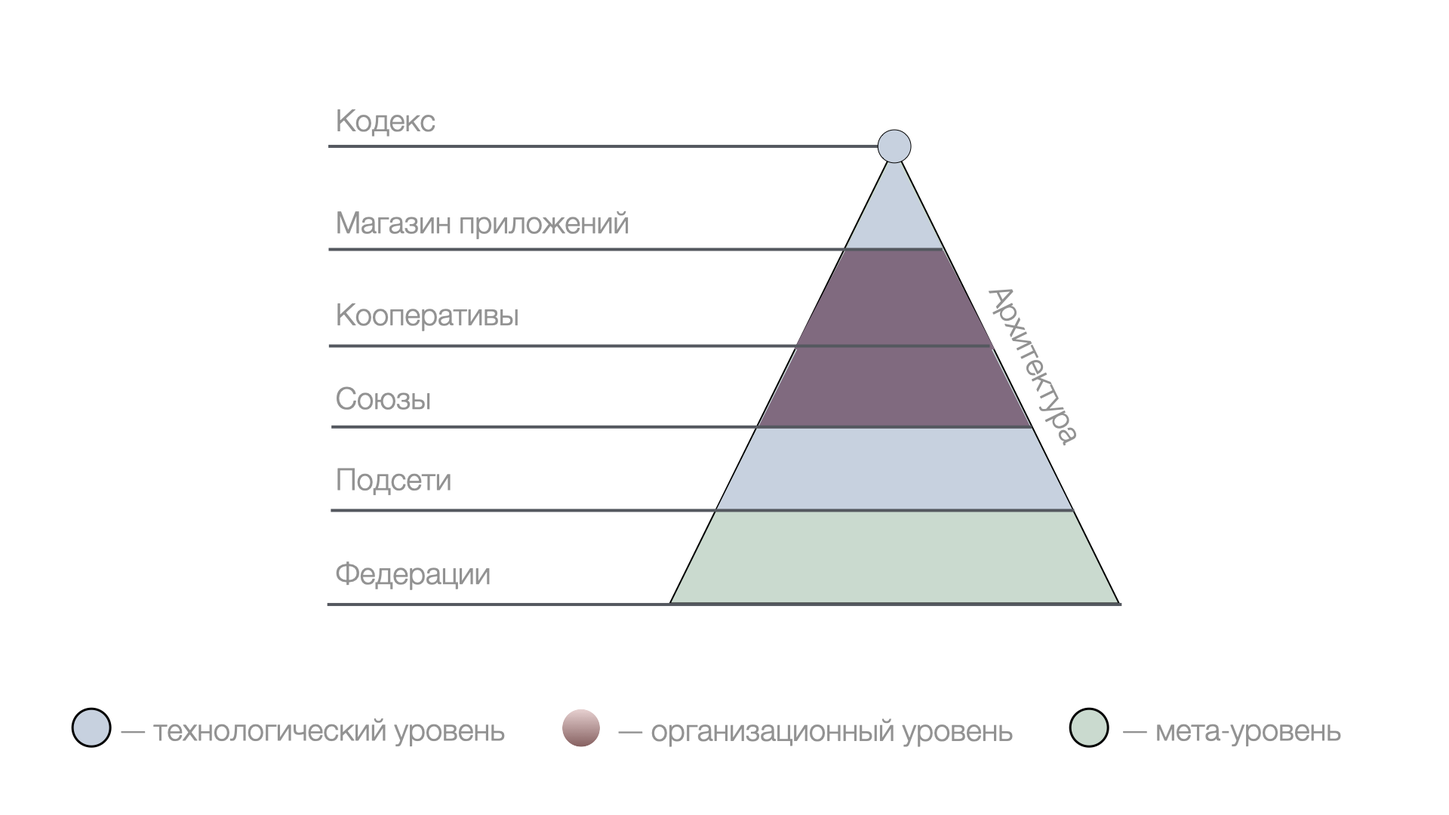
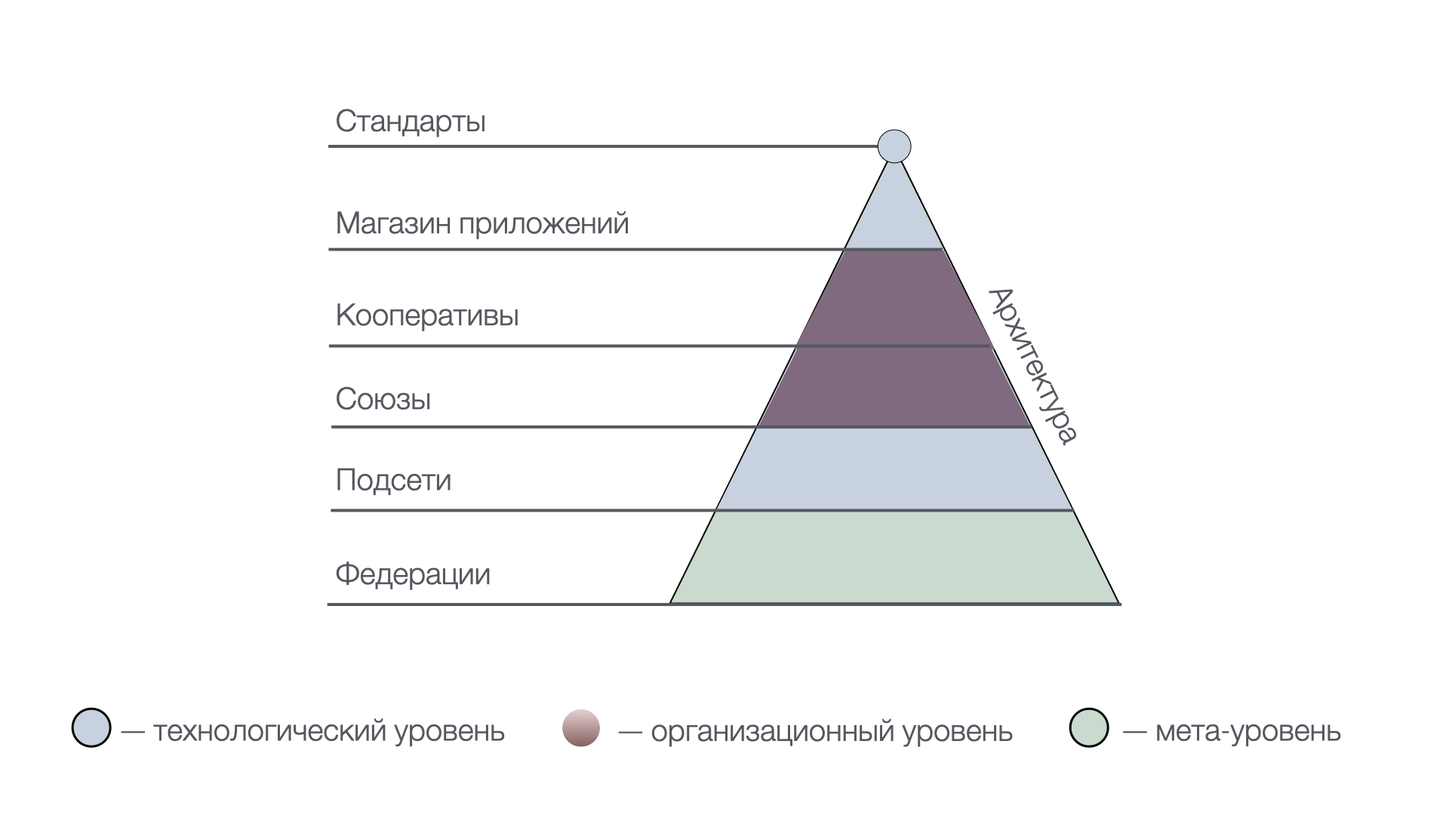
doc update

diff --git a/components/docs/docs/index.md b/components/docs/docs/index.md
@@ -19,29 +19,29 @@ tags:
 ![](/assets/new/org_architecture.png)
 
 
-## Кодекс
-Кодекс - это стандартизированный свод правил, методов, алгоритмов и норм кооперативной экономики, описанных на языке программирования C/C++, которые хранятся и исполняются в распределенной базе данных блокчейна. 
+## Стандарты
+Стандарты - это стандартизированный свод правил, методов, алгоритмов и норм кооперативной экономики, описанных на языке программирования C/C++, которые хранятся и исполняются в распределенной базе данных блокчейна. 
 
-Технологически, кодекс - это смарт-контракты, которые описывают методологию кооперации, а также целевые потребительские программы и алгоритмы действий пайщиков при участии в них с контролем прав доступа и логических (строго-математических) условий кооперации. 
+Технологически, стандарты - это смарт-контракты, которые описывают методологию кооперации, а также целевые потребительские программы и алгоритмы действий пайщиков при участии в них с контролем прав доступа и логических (строго-математических) условий кооперации. 
 
-Таким образом, кодекс - это программное ядро цифрового кооператива, которое объединяет систему в единое целое. За счет использования общего кодекса, подключенные к системе кооперативы получают возможность прозрачно и предсказуемо взаимодействовать между собой. 
+Таким образом, стандарты - это программное ядро цифрового кооператива, которое объединяет систему в единое целое. За счет использования общих стандартов, подключенные к системе кооперативы получают возможность прозрачно и предсказуемо взаимодействовать между собой. 
 
-**Первичным источником кодекса является его открытый программный код.** 
+**Первичным источником стандартов является их открытый программный код.** 
 
 ## Магазин приложений
 
 При подключении кооператив получает доступ к магазину кооперативных приложений. Устанавливая приложения, кооператив расширяет свою функциональность пайщиков новыми рабочими столами и страницами. 
 
-Рабочие столы и страницы реализуют кодекс в виде форм и кнопок, которые ведут пользователя по пути кооперации. Если с кодексом напрямую взаимодействовать могут только разработчики, ввиду того, что он написан на их языке, то рабочие столы и их страницы доступны к использованию всем пайщикам. 
+Рабочие столы и страницы реализуют стандарты в виде форм и кнопок, которые ведут пользователя по пути кооперации. Если со стандартами напрямую взаимодействовать могут только разработчики, ввиду того, что они написаны на их языке, то рабочие столы и их страницы доступны к использованию всем пайщикам. 
 
-Так, за счёт единого кодекса, у одной и той же целевой потребительской программы может быть несколько приложений от разных разработчиков, которые предоставляют доступ к её использованию. Данные о пользователях, при этом, доступны одновременно в обоих приложениях. Таким образом, становится возможным переход от одного приложения к другому без потери данных - они изначально находятся в едином информационном пространстве блокчейна.
+Так, за счёт единых стандартов, у одной и той же целевой потребительской программы может быть несколько приложений от разных разработчиков, которые предоставляют доступ к её использованию. Данные о пользователях, при этом, доступны одновременно в обоих приложениях. Таким образом, становится возможным переход от одного приложения к другому без потери данных - они изначально находятся в едином информационном пространстве блокчейна.
 
 <div align="center">
 ```mermaid
 graph BT
     Приложение1("Приложение 1") --> Данные_кооператива
     Приложение2("Приложение 2") --> Данные_кооператива
-    Данные_кооператива("Данные кооператива") --> Кодекс("Кодекс")
+    Данные_кооператива("Данные кооператива") --> Стандарты("Стандарты")
 ```
 </div>
 
@@ -50,7 +50,7 @@ graph BT
 
 Кооперативы становятся цифровыми при подключении к системе за счёт выпуска электронных цифровых подпистей для своих пайщиков и перевода документооборота с ними в электронную форму. 
 
-Приложения из магазина, функционируя на основе кодекса, генерируют электронные документы и подписывают в момент нажатия кнопок пайщиками. Таким образом, весь первичный документооборот автоматически генерируется приложениями на основе стандартной методологии кодекса. 
+Приложения из магазина, функционируя на основе стандартов, генерируют электронные документы и подписывают в момент нажатия кнопок пайщиками. Таким образом, весь первичный документооборот автоматически генерируется приложениями на основе стандартной методологии стандартов. 
 
 Первичный документооборот может быть использован для автоматического формирования бухгалтерской отчетности и соответствующих проводок по счетам во внешних бухгалтерских программах. Для этого также требуется установленные и настроенные приложения из магазина. 
 
@@ -64,7 +64,7 @@ graph BT
 
 ## Подсети
 
-Платформа Цифрового Кооператива распределена по подсетями. Каждая подсеть - это выделенная копия блокчейна и кодекса, которые обеспечивают:
+Платформа Цифрового Кооператива распределена по подсетями. Каждая подсеть - это выделенная копия блокчейна и стандартов, которые обеспечивают:
 
 - Полную правовую, валютную и технологическую изоляцию кооперативных контуров;
 
@@ -74,7 +74,7 @@ graph BT
 
 ![](/assets/new/subnets.png)
 
-Таким образом, в каждой подсети может быть свой, адаптированный  вариант кодекса, со своими союзами и кооперативами, действующих с учетом особенностей внутреннего законодательства и на основе своей государственной валюты. 
+Таким образом, в каждой подсети может быть свой, адаптированный  вариант стандартов, со своими союзами и кооперативами, действующих с учетом особенностей внутреннего законодательства и на основе своей государственной валюты. 
 
 
 ## Федерации
@@ -85,7 +85,7 @@ graph BT
 
 Федерации по организационно-правовой форме являются потребительскими кооперативами и обеспечивают среду взаимного членства в своём правовом поле. Федерации обеспечивают интернациональные коммуникационные связи между подсетями и странами, являются шлюзами для передачи информации/имущества. 
 
-С помощью федераций и на основе общего кодекса, становятся возможным создавать кооперативные цепочки удовлетворения потребностей большой длины, когда потребности пайщиков кооперативов удовлетворяются нелинейно через организацию живой, саморазвивающейся сети взаимопомощи, где целое становится больше суммы своих частей.
+С помощью федераций и на основе общих стандартов, становятся возможным создавать кооперативные цепочки удовлетворения потребностей большой длины, когда потребности пайщиков кооперативов удовлетворяются нелинейно через организацию живой, саморазвивающейся сети взаимопомощи, где целое становится больше суммы своих частей.
 
 ## Про что документация
 

diff --git a/components/docs/docs/new/council/agenda.md b/components/docs/docs/new/council/agenda.md
@@ -10,9 +10,9 @@ tags:
 
 ![повестка совета](/assets/new/soviet_agenda_1.png)
 
-Стандартизированные решения ведут к автоматизированному их исполнению согласно кодексу смарт-контрактов и обычно являются частью какого-либо бизнес-процесса. Например, при решении о приёме пайщика в кооператив - пайщик автоматически добавляется в реестр и ему открывается главный кошелек, а при решении о приеме имущественного паевого взноса, пайщик и председатель кооперативного участка получают возможность подписать акт приема-передачи. Стандартизированные решения обычно являются промежуточными в цепочке действий бизнес-процесса, которая продолжит свое исполнение, как только решение совета по вопросу будет принято. 
+Стандартизированные решения ведут к автоматизированному их исполнению согласно стандартам смарт-контрактов и обычно являются частью какого-либо бизнес-процесса. Например, при решении о приёме пайщика в кооператив - пайщик автоматически добавляется в реестр и ему открывается главный кошелек, а при решении о приеме имущественного паевого взноса, пайщик и председатель кооперативного участка получают возможность подписать акт приема-передачи. Стандартизированные решения обычно являются промежуточными в цепочке действий бизнес-процесса, которая продолжит свое исполнение, как только решение совета по вопросу будет принято. 
 
-Произвольные решения не исполняются автоматически, т.к. у них для этого нет правил кодекса. Произвольные решения позволяют членам совета предлагать вопросы на повестку и проекты решений по ним. Система автоматически сформирует документ предложения повестки и предложит совету проголосовать. При утверждении решения председателем совета, система сформирует протокол решения и сохранит его в реестре документов. Контроль исполнения принятого произвольного решения ложится на членов совета. 
+Произвольные решения не исполняются автоматически, т.к. у них для этого нет правил стандартов. Произвольные решения позволяют членам совета предлагать вопросы на повестку и проекты решений по ним. Система автоматически сформирует документ предложения повестки и предложит совету проголосовать. При утверждении решения председателем совета, система сформирует протокол решения и сохранит его в реестре документов. Контроль исполнения принятого произвольного решения ложится на членов совета. 
 
 !!!danger "Если решение не принято?"
     Если решение по вопросу не принято, то председатель не получит возможность утвердить протокол и следовательно он не попадет в реестр документов. Так, в реестр документов попадают только принятые и утвержденные решения совета. Что же касается стандартизированного бизнес-процесса, который прерывается, то у него на случай отказа в принятии решения всегда есть сценарий отмены, по ходу которого пайщик получает оповещение, и обратное движение средств по [кошелькам](../participant/wallet.md).
@@ -55,7 +55,7 @@ flowchart TD
 
 После того, как решение принято, председатель может утвердить его, нажатием на соответствующую кнопку напротив пункта повестки. Действие утверждения сформирует протокол собрания собрания совета и наполнит его данными в соответствии с содержанием стандартизированного или произвольного пункта повестки. 
 
-Если утверждается стандартизированное решение, то оно автоматически в этот же момент и исполняется на уровне кодекса смарт-контрактов. Произвольные решения, как было отмечено ранее, автоматически не исполняются, а только фиксируются в реестре документов. 
+Если утверждается стандартизированное решение, то оно автоматически в этот же момент и исполняется на уровне стандартов смарт-контрактов. Произвольные решения, как было отмечено ранее, автоматически не исполняются, а только фиксируются в реестре документов. 
 
 
 ## Предложить пункт повестки

diff --git a/components/docs/docs/new/registration/accept.md b/components/docs/docs/new/registration/accept.md
@@ -52,7 +52,7 @@ tags:
 
 ![модуль голосования](/assets/new/accept_reg_10.png)
 
-Как только количество голосов "ЗА" становится достаточным для принятия решения, у председателя совета рядом с модулем голосования появляется кнопка "Утвердить". В этот момент система автоматически формирует протокол собрания совета по вопросу повестки, подсчитывает голоса и подписывает этот новый документ цифровой подписью председателя совета. После чего, этот документ отправляется согласно кодексу в блокчейн, который автоматически исполняет его. 
+Как только количество голосов "ЗА" становится достаточным для принятия решения, у председателя совета рядом с модулем голосования появляется кнопка "Утвердить". В этот момент система автоматически формирует протокол собрания совета по вопросу повестки, подсчитывает голоса и подписывает этот новый документ цифровой подписью председателя совета. После чего, этот документ отправляется согласно стандартам в блокчейн, который автоматически исполняет его. 
 
 ![утвердить решение](/assets/new/accept_reg_12.png)
 
@@ -67,7 +67,7 @@ tags:
 
 
 !!!note "Забегая вперёд.."
-    Следует сказать, что система способна работать со стандартизированными решениями (например, вступление пайщика, взнос/возврат имущественных взносов, и т.д.), которые исполняются автоматически согласно кодексу платформы (например - через изменение статуса пайщика, увеличение баланса цифрового кошелька, и т.п.), и произвольными, когда члены совета создают вопрос на повестке и используют модуль голосования для формирования протокола решения совета, которое будет сохранено в системе как принятое, но не будет автоматически исполнено на уровне кодекса его программного кода. Произвольные решения позволяют кооперативам частично автоматизировать процесс принятия решений по любым вопросам своей деятельности вне цифровой платформы, автоматизируя процесс голосования и утверждения протоколов собрания совета. Стандартизированные решения же ведут к изменениям в распределенной базе данных блокчейна согласно кодексу платформы. Подробнее мы рассмотрим произвольные решения на странице "Повестка совета" на столе совета. 
+    Следует сказать, что система способна работать со стандартизированными решениями (например, вступление пайщика, взнос/возврат имущественных взносов, и т.д.), которые исполняются автоматически согласно стандартам платформы (например - через изменение статуса пайщика, увеличение баланса цифрового кошелька, и т.п.), и произвольными, когда члены совета создают вопрос на повестке и используют модуль голосования для формирования протокола решения совета, которое будет сохранено в системе как принятое, но не будет автоматически исполнено на уровне стандартов его программного кода. Произвольные решения позволяют кооперативам частично автоматизировать процесс принятия решений по любым вопросам своей деятельности вне цифровой платформы, автоматизируя процесс голосования и утверждения протоколов собрания совета. Стандартизированные решения же ведут к изменениям в распределенной базе данных блокчейна согласно стандартам платформы. Подробнее мы рассмотрим произвольные решения на странице "Повестка совета" на столе совета. 
 
 
 Мы здесь не будем рассматривать то, из чего состоит цифровая подпись и какие есть кнопки действий у электронных документов - оставим это соответствующим разделам. Пайщика мы приняли, двигаемся дальше.. Следующий раздел для разработчиков - смело пропускайте его, если вам это не нужно.  

diff --git a/components/docs/docs/new/council/wallets.md b/components/docs/docs/new/council/wallets.md
@@ -4,7 +4,7 @@ tags:
   - Председатель
 ---
 
-"Реестр кошельков" отображает кошельки кооператива для управленческого учёта. Баланс кошельков изменяются на основе правил кодекса смарт-контрактов следующими операциями: **"увеличение"**, **"уменьшение"**, **"блокировка"**, **перевод**, **"списание"**.
+"Реестр кошельков" отображает кошельки кооператива для управленческого учёта. Баланс кошельков изменяются на основе правил стандартов смарт-контрактов следующими операциями: **"увеличение"**, **"уменьшение"**, **"блокировка"**, **перевод**, **"списание"**.
 
 Реестр кошельков служит звеном контроля целостности экономического баланса кооператива, не допуская операции, которые уменьшают баланс кошелька ниже нуля, и одновременно с этим, ограничивая возможность двойных трат. Как именно - мы рассмотрим ниже в примере. 
 
@@ -12,7 +12,7 @@ tags:
 
 ![реестр документов](/assets/new/soviet_wallets_1.png)
 
-Выше мы видим кошельки кооператива, каждый из которых обладает тремя колонками своего баланса: **доступно**, **заблокировано** и **списано**. Доступные к использованию средства согласно кодексу и его бизнес-процессам расположены в колонке "доступно". Имеющиеся средства, уже используемые в каких-либо бизнес-процессах находятся в статусе "заблокировано". В колонке "списано" находятся средства, которые вышли из системы управленческого учёта по указанному кошельку. 
+Выше мы видим кошельки кооператива, каждый из которых обладает тремя колонками своего баланса: **доступно**, **заблокировано** и **списано**. Доступные к использованию средства согласно стандартам и их бизнес-процессам расположены в колонке "доступно". Имеющиеся средства, уже используемые в каких-либо бизнес-процессах находятся в статусе "заблокировано". В колонке "списано" находятся средства, которые вышли из системы управленческого учёта по указанному кошельку. 
 
 
 При нажатии на зеленую стрелку у номера кошелька откроется история движения средств по конкретному кошельку:
@@ -25,7 +25,7 @@ tags:
 
 
 !!!warning ""
-    Данный реестр является публичным, он хранится в распределенной базе данных блокчейна и изменяется на основе кодекса смарт-контрактов. В описании причин движений средств по кошелькам нет и не будет персональных данных пайщиков, но там содержатся идентификаторы и имена аккаунтов, по которым пайщик, обладающий доступом к реестру документов, аккаунтов и платежей, сможет восстановить причину любого движения с полным восстановлением хронологии. 
+    Данный реестр является публичным, он хранится в распределенной базе данных блокчейна и изменяется на основе стандартов смарт-контрактов. В описании причин движений средств по кошелькам нет и не будет персональных данных пайщиков, но там содержатся идентификаторы и имена аккаунтов, по которым пайщик, обладающий доступом к реестру документов, аккаунтов и платежей, сможет восстановить причину любого движения с полным восстановлением хронологии. 
 
 
 

diff --git a/components/docs/docs/new/council/payments.md b/components/docs/docs/new/council/payments.md
@@ -14,7 +14,7 @@ tags:
 
 Входящие платежи, на данный момент, бывают в реестре только паевым взносами пайщиков по целевой потребительской программе "Цифровой Кошелек", которые при подтверждении кассиром зачисляются им в главный кошелек и позволяют принимать участие в прочих приложениях экосистемы. 
 
-Исходящие платежи создаются в процессе бизнес-логики, которая предусмотрена кодексом платформы. Так, исходящий платеж на возврат паевого взноса создаётся только после того, как заявление на возврат паевого взноса, сформированное в [главном кошельке пайщика](../participant/wallet-refund.md) получит положительное решение совета. В момент автоматического исполнения протокола стандартизированного решения, кассир получит поручение на оплату, которое отобразится в реестре платежей. 
+Исходящие платежи создаются в процессе бизнес-логики, которая предусмотрена стандартами платформы. Так, исходящий платеж на возврат паевого взноса создаётся только после того, как заявление на возврат паевого взноса, сформированное в [главном кошельке пайщика](../participant/wallet-refund.md) получит положительное решение совета. В момент автоматического исполнения протокола стандартизированного решения, кассир получит поручение на оплату, которое отобразится в реестре платежей. 
 
 Для управления входящими и исходящими платежами есть две кнопки: "подтвердить платеж" и "отклонить платеж":
 
@@ -23,7 +23,7 @@ tags:
 
 При нажатии на подтверждение платежа появится окно запроса подтверждения действия. Если действие будет подтверждено, то система получит команду на изменение статуса платежа "в обработке", после чего, автоматически обработает его, запустив или продолжив цепочку бизнес-действий и изменив статус платежа на "обработано". Например, после подтверждения приёма регистрационного платежа (вступительного и мин. паевого взносов), совет получит документы в [пункт повестки собрания совета](agenda.md). 
 
-В случае отклонения входящего в кооператив платежа - кассиру необходимо произвести обратную операцию по расчетному счету, если это требуется. При отклонении исходящего платежа система автоматически запустит соответствующую цепочку действий согласно кодекса смарт-контрактов. После отклонения от кассира обычно дополнительных действий не требуется. 
+В случае отклонения входящего в кооператив платежа - кассиру необходимо произвести обратную операцию по расчетному счету, если это требуется. При отклонении исходящего платежа система автоматически запустит соответствующую цепочку действий согласно стандартам смарт-контрактов. После отклонения от кассира обычно дополнительных действий не требуется. 
 
 
 

diff --git a/components/docs/docs/new/registration/join.md b/components/docs/docs/new/registration/join.md
@@ -36,7 +36,7 @@ tags:
 На следующем шаге система на основе предоставленных данных заполнит заявление на вступление в кооператив и предложит ознакомиться с ним. Под заявлением находится четыре галочки, которые необходимо отметить, как свидетельство того, что вы ознакомились со всеми документами: положение о порядке и правилах использования простой электронной подписи, положение о целевой потребительской программе "Цифровой Кошелек", пользователькое соглашение и Устав кооператива. 
 
 !!!note "К сведению"
-    Все заявления на вступление являются типовыми для всех кооперативов платформы. В них изменяются только переменные, такие как дата заполнения, реквизиты пайщика и кооператива, и суммы взносов. Все документы (кроме Устава), которые предлагаются к ознакомлению, также создаются из шаблонов и являются стандатизированными для всех кооперативов платформы "Кооперативная Экономика" согласно кодексу.  
+    Все заявления на вступление являются типовыми для всех кооперативов платформы. В них изменяются только переменные, такие как дата заполнения, реквизиты пайщика и кооператива, и суммы взносов. Все документы (кроме Устава), которые предлагаются к ознакомлению, также создаются из шаблонов и являются стандатизированными для всех кооперативов платформы "Кооперативная Экономика" согласно стандартам.  
 
 ![подпись заявления](/assets/new/register_6.png)
 
@@ -64,7 +64,7 @@ tags:
 
 ![ожидание решения совета](/assets/new/register_9.png)
 
-Согласно нормам кодекса кооперативной экономики кооператив может рассматривать заявление на вступление в течение 30 дней. Однако, обычно все происходит быстрее, в среднем, за 24 часа (в это время члены совета должны ознакомиться с вашим заявлением, проголосовать по нему, сформировать протокол решения и утвердить его). Как только протокол решения совета будет сформирован и утвержден - вы получите оповещение об этом на электронную почту и доступ в личный кабинет. 
+Согласно нормам стандартов кооперативной экономики кооператив может рассматривать заявление на вступление в течение 30 дней. Однако, обычно все происходит быстрее, в среднем, за 24 часа (в это время члены совета должны ознакомиться с вашим заявлением, проголосовать по нему, сформировать протокол решения и утвердить его). Как только протокол решения совета будет сформирован и утвержден - вы получите оповещение об этом на электронную почту и доступ в личный кабинет. 
 
 ![ожидание решения совета](/assets/new/register_10.png)
 

diff --git a/components/docs/docs/new/participant/wallet.md b/components/docs/docs/new/participant/wallet.md
@@ -47,7 +47,7 @@ flowchart LR
 
 У кошельков приложений, аналогично главному кошельку, есть доступные и заблокированные средства паевых взносов. Доступные средства приложения могут быть использованы для трансляции в главный кошелек или задействованы внутри приложения согласно его бизнес-процессу.
 
-Кошельками приложений управляют кооперативные смарт-контракты согласно принятому кодексу. Один смарт-контракт может управлять одновременно несколькими кошельками приложений согласно своей бизнес-логике. Например, смарт-контракт "Благорост" открывает пайщикам одновременно два кошелька приложений: по договору участия в хозяйственной деятельности и по условиям публичной оферты целевой потребительской программы. 
+Кошельками приложений управляют кооперативные смарт-контракты согласно принятым стандартам. Один смарт-контракт может управлять одновременно несколькими кошельками приложений согласно своей бизнес-логике. Например, смарт-контракт "Благорост" открывает пайщикам одновременно два кошелька приложений: по договору участия в хозяйственной деятельности и по условиям публичной оферты целевой потребительской программы. 
 
 Следует сказать, что смарт-контракты обычно автоматически возвращают средства из доступных средств кошелька приложения в главный кошелек по мере достижения условий завершения своего исполнения. Именно поэтому у кошельков приложений нет специализированных кнопок управления, вроде взносов и возвратов в и из кошельков приложений, т.к. все управление ими производится непосредственно на столах и страницах самих приложения. Здесь же, на странице кошелька пайщика, кошельки приложений представлены пайщику для мониторинга - где, сколько и в каком состоянии у него находится. 
 

diff --git a/components/docs/docs/new/chairman/cooperative-branches.md b/components/docs/docs/new/chairman/cooperative-branches.md
@@ -7,7 +7,7 @@ tags:
 
 ![члены совета](/assets/new/chairman_branches_1.png)
 
-На текущий момент в системе еще не реализован стол уполномоченных кооперативных участков, на котором пайщики смогут согласно кодексу смарт-контрактов, самоорганизоваться в кооперативный участок и получить решение совета. Потому, на этой странице председатель совета только **добавляет** уже юридически-существующие кооперативные участки в цифровую систему. Полный путь организации кооперативного участка будет оцифрован позднее. 
+На текущий момент в системе еще не реализован стол уполномоченных кооперативных участков, на котором пайщики смогут согласно стандартам смарт-контрактов, самоорганизоваться в кооперативный участок и получить решение совета. Потому, на этой странице председатель совета только **добавляет** уже юридически-существующие кооперативные участки в цифровую систему. Полный путь организации кооперативного участка будет оцифрован позднее. 
 
 Для добавления кооперативного участка необходимо нажать на кнопку "Добавить участок" в шапке страницы, после чего, откроется диалогое окно для ввода данных. Председатель кооперативного участка выбирается из списка пайщиков кооператива. Юридический адрес кооперативного участка будет соответствовать юридическому адресу кооператива. Фактический адрес - тот, который будет указан. 
 

diff --git a/components/docs/docs/new/installation/index.md b/components/docs/docs/new/installation/index.md
@@ -42,9 +42,9 @@ tags:
 
 При запуске подсети доступны только минимально-необходимые кооперативные приложения: модуль регистрации, модуль платежей, модуль документов, и некоторые другие. 
 
-Для подключения к основному магазину приложений, подсеть должна соответствовать некоторым критериям, главный из которых - полное соответствия кодекса - общим стандартам. 
+Для подключения к основному магазину приложений, подсеть должна соответствовать некоторым критериям, главный из которых - полное соответствие стандартам - общим стандартам. 
 
-Проверка соответствия кодекса осуществляется криптографически на основе технологии блокчейн. Описание подключения к магазину приложений для подсетей также выходит за рамки данной документации и будет оформлено позднее.
+Проверка соответствия стандартам осуществляется криптографически на основе технологии блокчейн. Описание подключения к магазину приложений для подсетей также выходит за рамки данной документации и будет оформлено позднее.
 
 ## Кратко еще раз
 

diff --git a/components/docs/docs/new/signature/index.md b/components/docs/docs/new/signature/index.md
@@ -22,7 +22,7 @@ tags:
 
 ## Как создаётся подпись
 
-Подписать можно строку, файл или их контрольную сумму. В ЦК, согласно кодексу, мы извлекаем контрольную сумму бинарных данных PDF документа по алгоритму sha256. Полученную строку длиной 64 символа мы подписываем, используя специализированный внутренний формат хранения подписи в документах.
+Подписать можно строку, файл или их контрольную сумму. В ЦК, согласно стандартам, мы извлекаем контрольную сумму бинарных данных PDF документа по алгоритму sha256. Полученную строку длиной 64 символа мы подписываем, используя специализированный внутренний формат хранения подписи в документах.
 
 Однако, в целом, алгоритм прост: приватный ключ + сообщение → криптографическая подпись `SIG_K1_...`. 
 

diff --git a/components/docs/docs/new/factory/index.md b/components/docs/docs/new/factory/index.md
@@ -63,7 +63,7 @@ tags:
 
 Таким образом, фабрика способна в любой момент предоставить или полный документ или произвести глубокую сверку документа на основании своих исторических данных. 
 
-Мы не будем в данном разделе подробно останавливаться на принципах генерации документов из шаблов, т.к. это продукт кодекса кооперативной экономики и данный материал будет описан на соответствующих страницах сайта [https://coopenomics.world](https://coopenomics.world). 
+Мы не будем в данном разделе подробно останавливаться на принципах генерации документов из шаблов, т.к. это продукт стандартов кооперативной экономики и данный материал будет описан на соответствующих страницах сайта [https://coopenomics.world](https://coopenomics.world). 
 
 
 

diff --git a/components/docs/docs/new/chairman/approval-requests.md b/components/docs/docs/new/chairman/approval-requests.md
@@ -7,7 +7,7 @@ tags:
 
 ![запросы одобрений](/assets/new/chairman_approvals_1.png)
 
-Запросы одобрений являются частью бизнес-процессов, по ходу которых они запрашиваются. Как только одобрение председателя будет получено - процесс продолжит выполняться по кодексу смарт-контрактов. 
+Запросы одобрений являются частью бизнес-процессов, по ходу которых они запрашиваются. Как только одобрение председателя будет получено - процесс продолжит выполняться по стандартам смарт-контрактов. 
 
 Страница запросов одобрений стола председателя - это центральная точка, в которую сводятся все запросы одобрений всех смарт-контрактов всех бизнес-процессов цифрового кооператива. 
 
